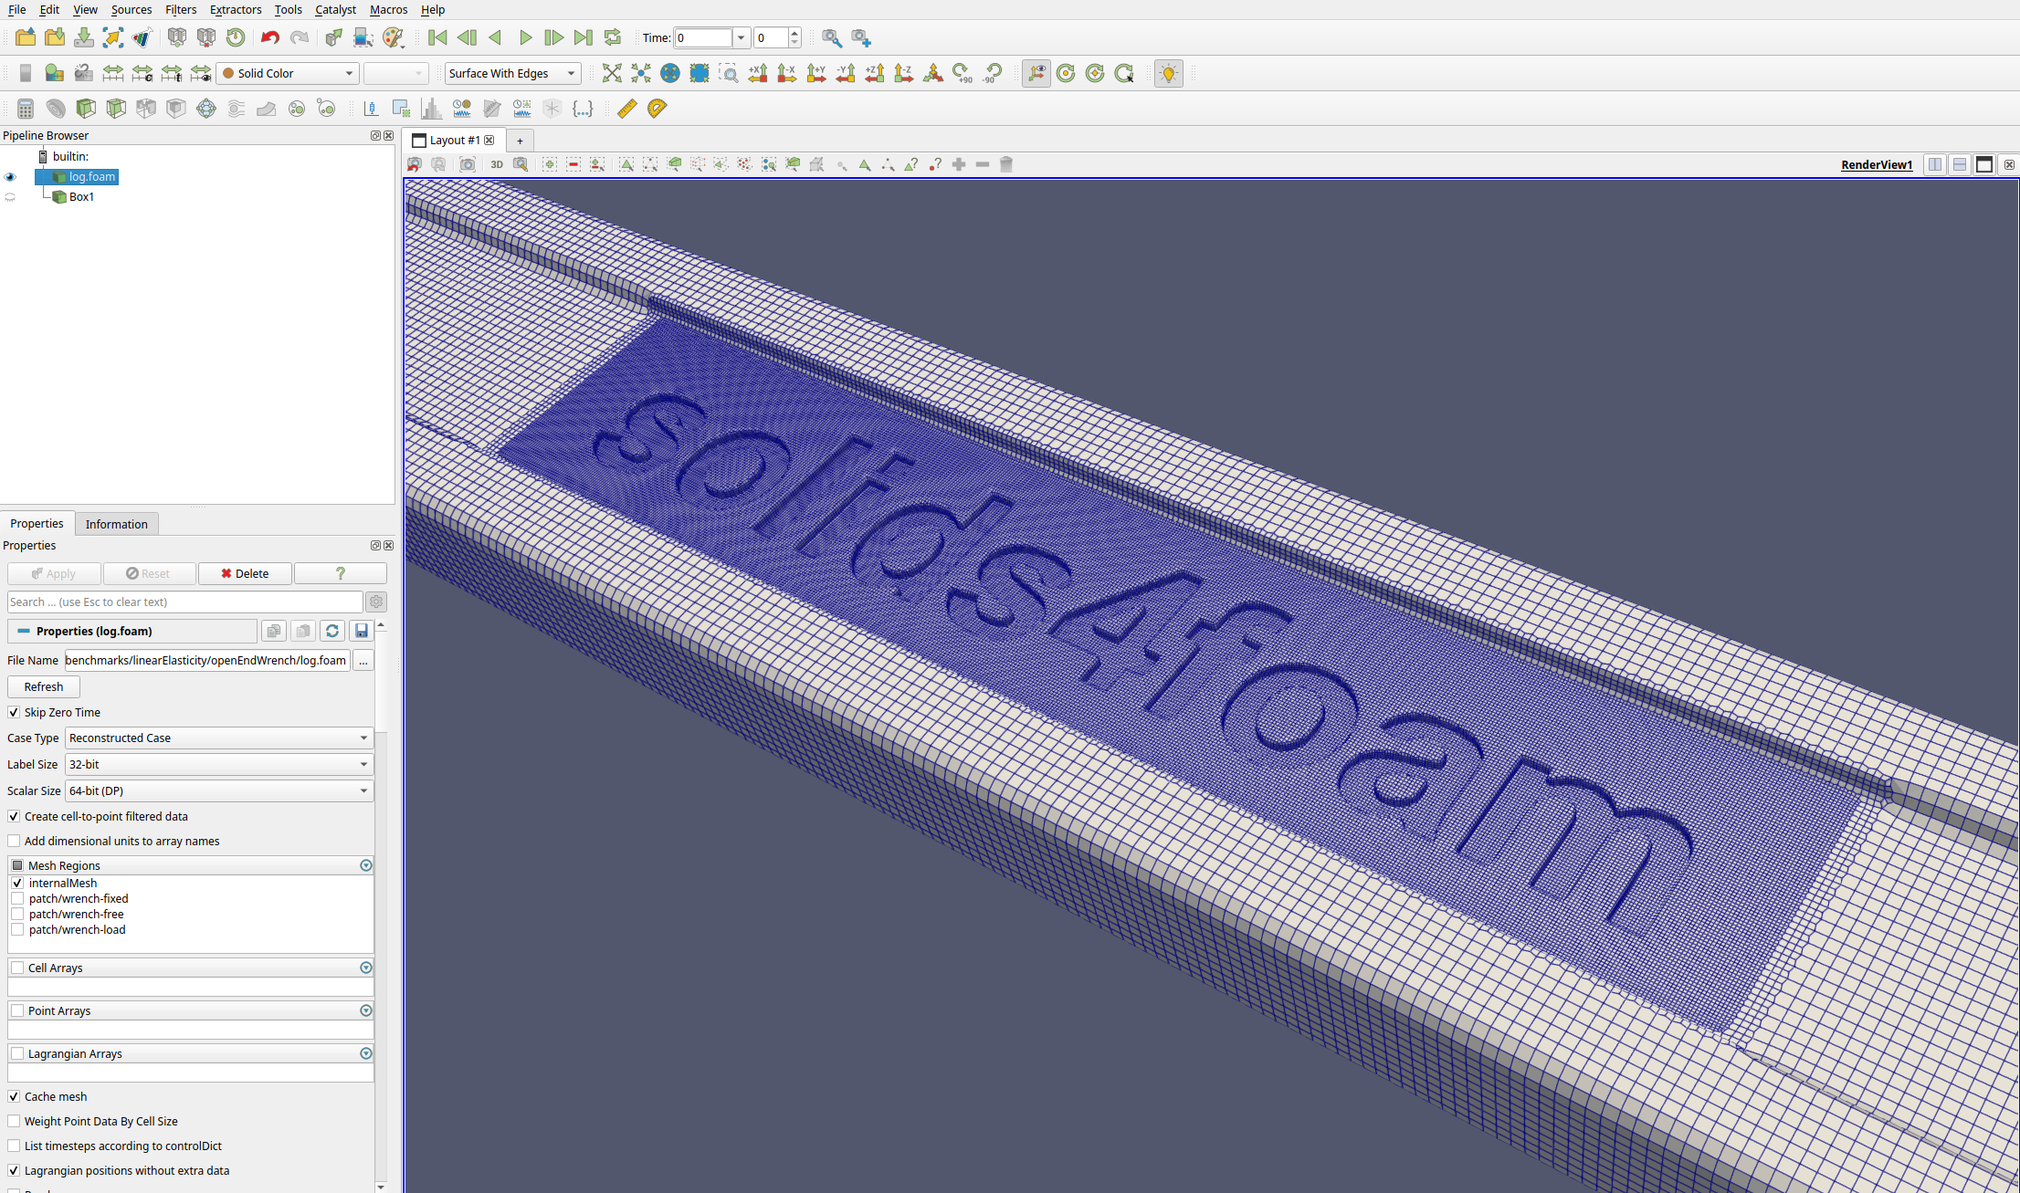
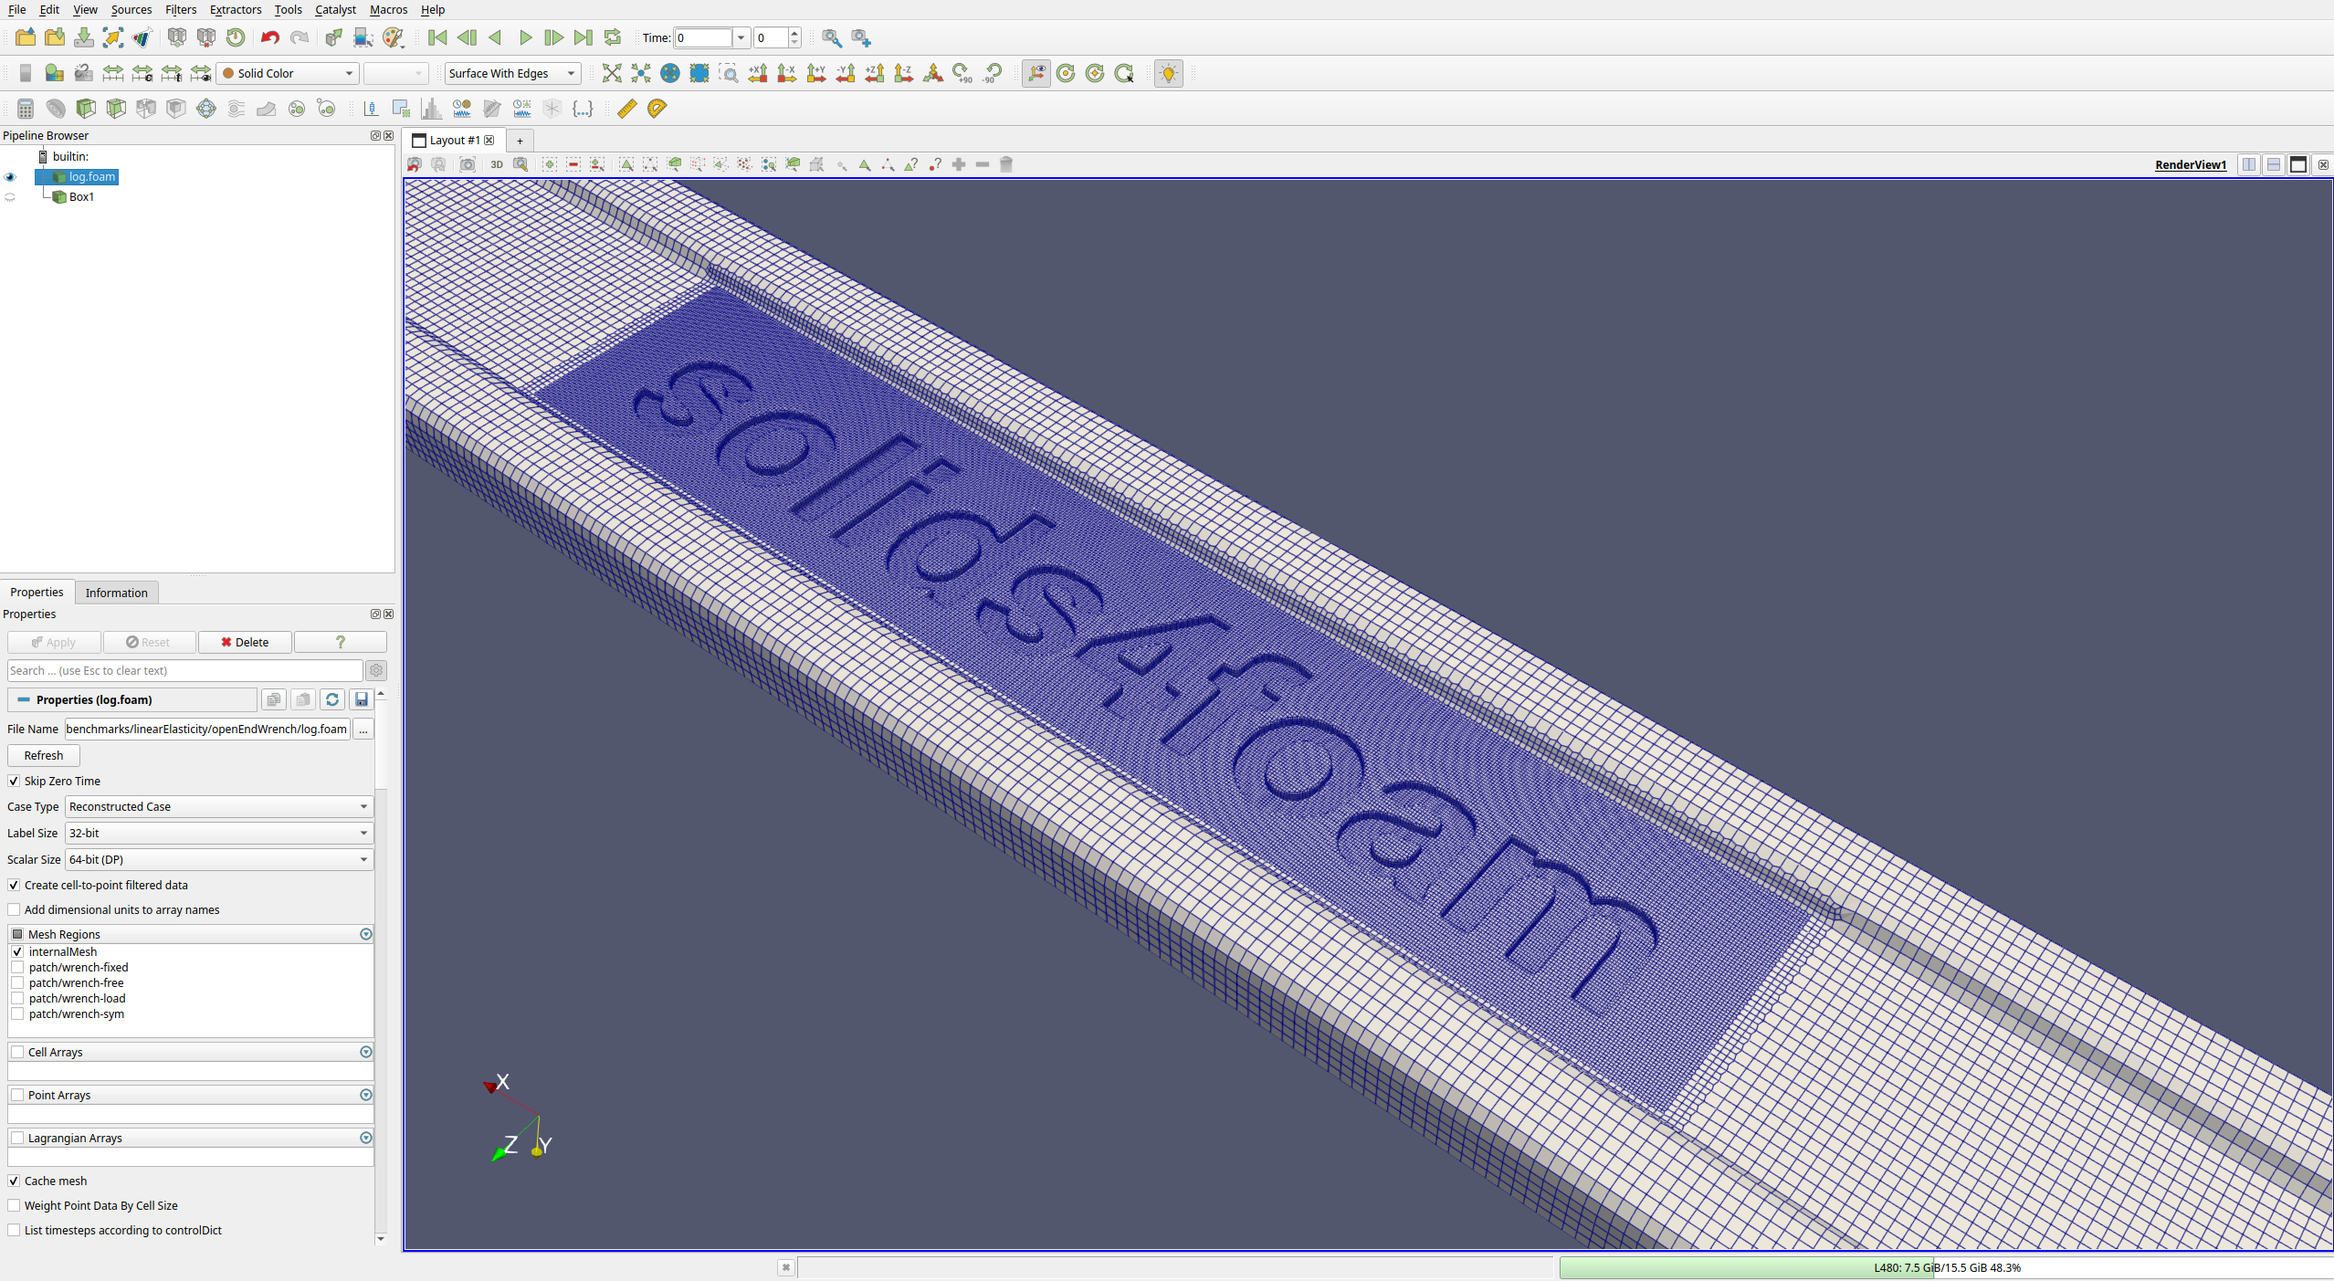
Refactoring the case to use symmetry

diff --git a/tutorials/customWorkflowTutorial.md b/tutorials/customWorkflowTutorial.md
@@ -6,7 +6,7 @@ Prepared by: Ivan Batistić and Philip Cardiff
 
 ## Tutorial Aims
 
-This guide covers the step-by-step process of building a custom solid case from scratch. It explains how to generate the mesh for the provided geometry, set up patches for boundary conditions, use the `cfMesh` mesh generator, apply boundary and initial conditions, solve the problem, and post-process the results. We’ll demonstrate each stage using a specific example: creating a case for an open-end wrench.
+This guide covers the step-by-step process of building a custom solid case from scratch. It demonstrates how to generate the mesh for the provided geometry, use the `cfMesh` mesh generator, set up patches for boundary conditions, apply boundary conditions, solve the problem, and post-process the results. We’ll use an open-end wrench as the example.
 
 ##  Prerequisites
 
@@ -26,14 +26,22 @@ Before using geometry for simulations, it’s essential to ensure the geometry i
 
 *Case geometry*
 
-For `cfMesh`, the prepared geometry should be exported in `stl` format (preferably written in `ascii` format). Before exporting, it’s advisable to divide the surface so that each portion corresponds to the boundary condition that will be applied later in the simulation. In this case, we distinguish between the faces where zero displacement will be prescribed and the surfaces where the load will be applied. These surfaces are shown in the image below, with the load surface marked in green and the fixed displacement surface in red. Overall, this means the wrench geometry is divided into three `.stl` files: `wrench-fixed.stl`, `wrench-free.stl`, and `wrench-load.stl`. 
+For `cfMesh`, the prepared geometry should be exported in `stl` format (preferably written in `ascii` format). Before exporting, it’s advisable to divide the surface so that each portion corresponds to the boundary condition that will be applied later in the simulation. In this case, we distinguish between the faces where zero displacement will be prescribed, surfaces where the load will be applied and symmetry surface. These surfaces are shown in the image below, with the load surface marked in green, symmetry surface in blue and the fixed displacement surface in red. Overall, this means the wrench geometry is divided into four `.stl` files: `wrench-fixed.stl`, `wrench-sym.stl`,  `wrench-free.stl`, and `wrench-load.stl`. 
+
+```tip
+Note that only half of the geometry is the computational domain. The symmetry of the geometry and loads allows us to model one-half of the geometry, which at the end saves computational time.
+```
+
+
 
 ![Case geometry and mesh](images/openEndWrench-bc.png)
 
-_Case geometry: load surface (green) and fixed surface (red)_
+
+
+_Computational model: load surface (green), fixed surface (red) and symmetry surface (blue)_
 
 ```tip
-When exporting geometry to STL format, you can control the fineness of the surface triangulation. Make it fine enough to accurately describe the geometry, but avoid creating an STL file that is too large, as this will increase meshing time.
+When exporting geometry to stl format, you can control the fineness of the surface triangulation. Make it fine enough to accurately describe the geometry, but avoid creating an stl file that is too large, as this will increase meshing time.
 ```
 
 To download the geometry, first, we need  to open the terminal and create a case directory at a location of your choice:  
@@ -105,7 +113,7 @@ solid OBJECT
 endsolid OBJECT
 ```
 
-to 
+should looks like: 
 ```plaintext
 solid wrench-free
   facet normal 0.17364834595052386 0 0.98480772333925526
@@ -132,7 +140,7 @@ $ surfaceToFMS wrench.stl
 Now we can adjust the `meshDict` and try to generate a mesh. Set the entries in the `meshDict` as follows,
 
 ```plaintext
-surfaceFile "newtonDecimated.stl";
+surfaceFile "wrench.fms";
 maxCellSize 0.016;
 boundaryCellSize $maxCellSize;
 ```
@@ -146,15 +154,15 @@ $ paraFoam
 
 ![Case geometry and mesh](images/openEndWrench-mesh1.png)
 
-One can see that the mesh size is sufficient to describe the geometry. However, if we want to capture smaller features, such as the engraved letters, we need to refine the mesh in that region. To do so, we can refer to the `cfMesh` [user guide](https://cfmesh.com/wp-content/uploads/2015/09/User_Guide-cfMesh_v1.1.pdf), which details the available meshing features. In this case, we will refine the mesh within a box zone. To determine the box's center and size, we can use *Sources > Alphabetical > Box* in `paraFoam`.
+One can see that the mesh size is sufficient to describe the geometry. However, if we want to capture smaller features, such as the engraved letters, we need to refine the mesh in that region. To do so, we can refer to the `cfMesh` [user guide](https://cfmesh.com/wp-content/uploads/2015/09/User_Guide-cfMesh_v1.1.pdf), which details the available meshing features. In this case, we will refine the mesh within a box zone. To determine the box's center and size, we can use *Sources > Alphabetical > Box* in ParaView.
 
 ![Case geometry and mesh](images/openEndWrench-boxRef.png)
 
-Now we can add the box refinement in the `meshDict` file:
+Now when we know box dimensions we can add the refinement in the `meshDict` file:
 
 ```plaintext
-surfaceFile "newtonDecimated.stl";
-maxCellSize 0.018;
+surfaceFile "wrench.fms";
+maxCellSize 0.016;
 boundaryCellSize $maxCellSize;
 
 objectRefinements
@@ -162,7 +170,7 @@ objectRefinements
     box
     {
         type box;
-        cellSize 0.01;
+        cellSize 0.0;
         centre (3.55 -0.06 -0.006);
         lengthX 1.8;
         lengthY 0.05;
@@ -188,30 +196,31 @@ To check if the mesh is suitable for running, we will use the `checkMesh` utilit
 $ checkMesh
 ```
 
-From the output of `checkMesh`, we can see that the mesh passed the test and is suitable for use:
+From the output of `checkMesh`, we can see that the mesh passed the test and is OK for use:
 
 ```plaintext
 Checking geometry...
-    Overall domain bounding box (-0.688933 -0.137819 -0.832673) (5.88764 0.137824 0.784275)
+    Overall domain bounding box (-0.693371 -0.137758 -0.832674) (5.8863 1.987e-08 0.784286)
     Mesh has 3 geometric (non-empty/wedge) directions (1 1 1)
     Mesh has 3 solution (non-empty) directions (1 1 1)
-    Boundary openness (-7.50451e-18 -1.36397e-14 -9.02428e-16) OK.
-    Max cell openness = 3.42099e-16 OK.
-    Max aspect ratio = 8.55694 OK.
-    Minimum face area = 1.46395e-06. Maximum face area = 0.000459851.Face area magnitudes OK.
-    Min volume = 4.44711e-09. Max volume = 4.9307e-06.  Total volume = 0.908646.  Cell volumes OK.
-    Mesh non-orthogonality Max: 61.3459 average: 3.34755
+    Boundary openness (-1.9122e-18 3.4032e-14 -2.15079e-15) OK.
+    Max cell openness = 3.39452e-16 OK.
+    Max aspect ratio = 7.41112 OK.
+    Minimum face area = 1.49903e-06. Maximum face area = 0.000593324.  Face area magnitudes OK.
+    Min volume = 5.80657e-09. Max volume = 4.96332e-06.  Total volume = 0.45235.  Cell volumes OK.
+    Mesh non-orthogonality Max: 52.4483 average: 4.18888
     Non-orthogonality check OK.
     Face pyramids OK.
-    Max skewness = 1.48466 OK.
+    Max skewness = 1.85112 OK.
     Coupled point location match (average 0) OK.
+
 Mesh OK.
 ```
 
-From the `Overall domain bounding box` line, we can see that the bounding box for our mesh is 6.5 meters in the x-direction, which suggests that we have scaling issues. This typically happens when the mesh is created in millimeters but exported in meters, or vice versa. To fix this, we can simply scale the mesh using the following command:
+From the `Overall domain bounding box` line, we can see that the bounding box for our mesh is 6.5 meters in the x-direction, which suggests that we have scaling issues. This typically happens when the mesh is created in millimeters but exported in meters, or vice versa. In this example, the CAD model was in inches, so we need to scale it by a factor of 0.0254 to convert it to meters:
 
 ```bash
-scaleMesh 0.001
+$ scaleMesh 0.0254
 ```
 
 Additionally, the `checkMesh` output shows that the boundary patches correspond to the names of the `stl` files, and we can use these patch names to set up the boundary conditions in the `0` directory."
@@ -219,10 +228,10 @@ Additionally, the `checkMesh` output shows that the boundary patches correspond 
 ```plaintext
 Checking patch topology for multiply connected surfaces...
                    Patch    Faces   Points  Surface topology
-            wrench-fixed     1410     1487  ok (non-closed singly connected)
-             wrench-free    98836    99462  ok (non-closed singly connected)
-             wrench-load      956     1080  ok (non-closed singly connected)
-                    ".*"   101202   101489      ok (closed singly connected)
+            wrench-fixed      659      747  ok (non-closed singly connected)
+             wrench-free    70733    71725  ok (non-closed singly connected)
+             wrench-load      478      600  ok (non-closed singly connected)
+              wrench-sym    17603    18003  ok (non-closed singly connected)
 ```
 
 The same patch names are written in the `constant/polyMesh/boundary` file, which in our case looks like this:
@@ -233,50 +242,64 @@ The same patch names are written in the `constant/polyMesh/boundary` file, which
 wrench-fixed
 {
     type wall;
-    nFaces 1410;
-    startFace 1780995;
+    nFaces 659;
+    startFace 1512428;
 }
 
 wrench-free
 {
     type wall;
-    nFaces 98836;
-    startFace 1782405;
+    nFaces 70733;
+    startFace 1513087;
 }
 
 wrench-load
 {
     type wall;
-    nFaces 956;
-    startFace 1881241;
+    nFaces 478;
+    startFace 1583820;
+}
+
+wrench-sym
+{
+    type wall;
+    nFaces 17603;
+    startFace 1584298;
 }
 
 )
 ```
 
-The type `wall` is used for fluid simulations. For solid simulations, we need to replace it with the `patch` type:
+The type `wall` is used for fluid simulations. For solid simulations, we need to replace it with the `patch` type for traction and displacement boundaries and with `symmetry` for patches where symmetry conditions are applied.
 ```plaintext
 3
 (
 wrench-fixed
 {
     type patch;
-    nFaces 1410;
-    startFace 1780995;
+    nFaces 659;
+    startFace 1512428;
 }
 
 wrench-free
 {
     type patch;
-    nFaces 98836;
-    startFace 1782405;
+    nFaces 70733;
+    startFace 1513087;
 }
 
 wrench-load
 {
     type patch;
-    nFaces 956;
-    startFace 1881241;
+    nFaces 478;
+    startFace 1583820;
+}
+
+wrench-sym
+{
+    type symmetry;
+    nFaces 17603;
+    startFace 1584298;
 }
 
 )
@@ -305,7 +328,7 @@ mechanical
 
  After inspecting the file, we can see that the properties match those of steel, so we can leave the file as it is.  
 
-In the `constant/solidProperties` file, we choose the solver type, solution tolerances, and the maximum number of iterations per time step (`nCorrectors`). The `materialTolerance` keyword is used only in the case of a nonlinear material law, and the `infoFrequency` setting adjusts when the residuals will be logged in the terminal. The solver`linearGeometryTotalDisplacement`, is a segregated solver for small strains and rotations. For a list of the solid models currently available in `solids4foam`, refer to this [page](https://www.solids4foam.com/documentation/solid-models.html).
+In the `constant/solidProperties` file, we choose the solver type, solution tolerances, and the maximum number of iterations per time step (`nCorrectors`). More informations regarding entries in` solidProperties` can be found in [`hotSphere`](https://www.solids4foam.com/tutorials/tutorial1.html) tutorial case. The chosen solver is same as in `plateHole` tutorial;`linearGeometryTotalDisplacement`, which is a segregated solver for small strains and rotations. For a list of the solid models currently available in `solids4foam`, check this [page](https://www.solids4foam.com/documentation/solid-models.html).
 
 ```plaintext
 // linearGeometry: assumes small strains and rotations
@@ -314,13 +337,13 @@ solidModel     linearGeometryTotalDisplacement;
 "linearGeometryTotalDisplacementCoeffs"
 {
     // Maximum number of momentum correctors
-    nCorrectors     1000;
+    nCorrectors     5000;
 
     // Solution tolerance for displacement
     solutionTolerance 1e-06;
 
     // Alternative solution tolerance for displacement
-    alternativeTolerance 1e-07;
+    alternativeTolerance 1e-06;
 
     // Material law solution tolerance
     materialTolerance 1e-05;
@@ -338,7 +361,7 @@ Next, in the `0/D` file, we need to set up boundary and initial conditions. For 
 internalField   uniform (0 0 0);
 ```
 
-Within the curly brackets of the `boundaryField` keyword, we need to set the boundary condition for each patch. For solid simulations, the most common boundary conditions are prescribed displacement, traction, or symmetry. In this case, we need to apply pressure to the `wrench-load` patch, zero displacement to the `wrench-fixed` patch, and traction-free conditions to the remaining boundary, `wrench-free`.  Finally, the `0/D` file should look like this:
+Within the curly brackets of the `boundaryField` keyword, we need to set the boundary condition for each patch. We need to apply pressure to the `wrench-load` patch, zero displacement to the `wrench-fixed` patch, and traction-free conditions to the remaining boundary, `wrench-free`.  Finally, the `0/D` file should look like this:
 
 ```c++
 boundaryField
@@ -352,7 +375,7 @@ boundaryField
     {
         type            solidTraction;
         traction        uniform ( 0 0 0 );
-        pressure        uniform 1e4;
+        pressure        uniform 5e5;
         value           uniform (0 0 0);
     }
     wrench-free
@@ -362,14 +385,32 @@ boundaryField
         pressure        uniform 0;
         value           uniform (0 0 0);
     }
+    wrench-sym
+    {
+        type            solidSymmetry;
+        patchType       symmetry;
+        value           uniform (0 0 0);
+    }
 }
 ```
 
-The entries in `system/fvSchemes` and `system/fvSolution` suit our needs, so we can leave them as they are. In the `system/controlDict`, we need to set `endTime` to 1, as we are solving a static simulation with one load increment and no time marching. The `forceDisp1` entry in `functions` should be removed, and for `pointDisp`, we can set the value to `(0.0055 0 0)` to monitor the wrench end deflection.
+The entries in `system/fvSchemes` fit our case, so we can leave them as they are. In `system/fvSolution`, we can prescribe a small under-relaxation of the solution field `D`. This under-relaxation will not notably impact the convergence rate, but in some cases, it can help with calculation stability:
+
+```
+relaxationFactors
+{
+    fields
+    {
+        D       0.99;
+    }
+}
+```
+
+In the `system/controlDict`, we need to set `endTime` to 1, as we are solving a static simulation with one load increment and no time marching. The `forceDisp1` entry in `functions` should be removed, and for `pointDisp`, we can set the value to `(0.0055 0 0)` to monitor the wrench end deflection.
 
 ## Step 4. Running the Case
 
-To run the case, we can use the existing `Allrun` script; however, we need to modify it by removing the line that generates the mesh using `blockMesh`. Finally, the `Allrun` script should look like this:
+To run the case, we can use the existing `Allrun` script; however, we need to modify it by removing the line that generates the mesh using `blockMesh`.  To run the case in parallel the `Allrun` script should look like this:
 ```bash
 #!/bin/bash
 
@@ -382,23 +423,44 @@ source solids4FoamScripts.sh
 # Check case version is correct
 solids4Foam::convertCaseFormat .
 
-# Run solver
-if [[ "${1}" -gt 1 ]]
-then
-    # Number of cores passed as an argument
-    solids4Foam::runApplication decomposePar
-    solids4Foam::runParallel solids4Foam "${1}"
-    solids4Foam::runApplication reconstructPar
-else
-    # Case runs in serial if no argument is passed or if the argument is 1
-    solids4Foam::runApplication solids4Foam
-fi
+# Run solver in parallel
+solids4Foam::runApplication decomposePar
+mpirun -np 4 solids4Foam -parallel > log.solids4Foam
+solids4Foam::runApplication reconstructPar
+
 ```
 
+We can start the modified `Allrun` script with the command:
 
+```bash
+$ ./Allrun
+```
 
+To monitor residuals, we can open a new terminal and type the following command for live monitoring of the solver log file:
 
+```bash
+$ tail -f log.solids4Foam
+```
 
+Now the solver is running and will take some time, as the mesh size is notable. In the meantime, we can check how the case is decomposed, i.e., which processors are solving which parts of the domain, by transforming each processor domain into a `vtk` file using the following commands:
 
+```bash
+$ foamToVTK -case processor0
+$ foamToVTK -case processor1
+$ foamToVTK -case processor2
+$ foamToVTK -case processor3
+```
+
+The generated `vtk` files can be opened in ParaView by choosing _File > Open_ and selecting the file `_processor_0_procNumber.vtk` file located in the processor directory.
+
+The decomposition for this case is shown in the figure below. One can observe that the purple and green processor domains are smaller in size; however, this region contains a finer mesh for the engraved letters, resulting in an overall balanced load on all CPUs.
+
+![Case geometry and mesh](images/openEndWrench-processors.png)
+
+_Computational domain decomposition, colors denote different processors_
 
 ## Step 5. Analysing the Results
+
+When viewing the results in ParaView, we can first mirror the computational domain to obtain the full one by choosing _Filters > Alphabetical > Reflect_ and mirroring around the Y plane. Afterward, we can warp the geometry by a scaled displacement field, which can be achieved using the *Warp By Vector* filter, where the `D` displacement field is selected as the *Vector* and a *Scale Factor* of 1 shows the true deformation. In this case, using a *Scale Factor* of 100 allows the deformation to be seen.
+![Case geometry and mesh](images/openEndWrench-results.png)
+
